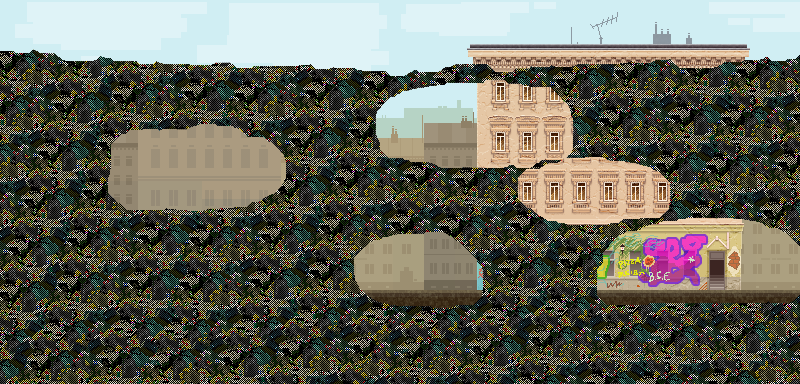
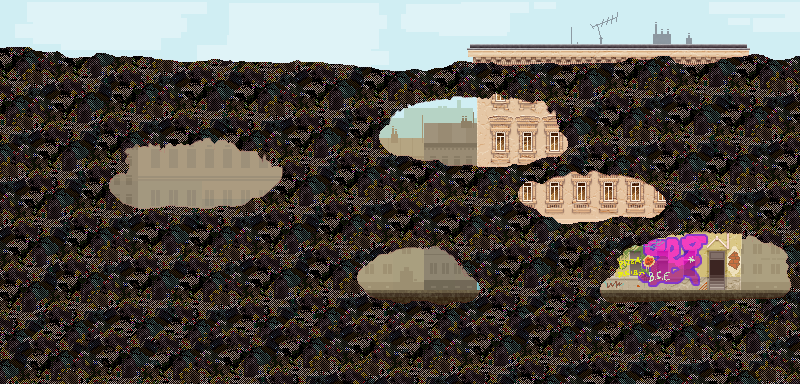
Level update Level screen neu Titelscreen neu Waschmaschinen assets gehen noch nicht ganz...

Changed region(s): [[0.0, 0.125, 1.0, 1.0]]

diff --git a/1700Easel/WebPage/home.html b/1700Easel/WebPage/home.html
@@ -132,11 +132,16 @@
 					30.1.2015
 					</p>
 					<p>
-					Preview Release von 1700 3/4
+					Preview Release von der Fluch der 1700
 					</p>
-					
 					<p class="termine">
-					29.2.2015
+					30.1.2015
+					</p>
+					<p>
+					Radiobeitrag in der FM4 Morningshow
+					</p>
+					<p class="termine">
+					29.1.2015
 					</p>
 					<p>
 					Radio Interview am Donnerstag 19.00 auf FM4 Homebase.
@@ -146,18 +151,6 @@
 					</p>
 					<p>
 					20:00 Radiointerview auf <a href="http://radio-stimme.at" target="_blank">Radio Stimme </a>, Radio Orange, 94.0 Wien
-					</p>
-					<p class="termine">
-					20.2.2015
-					</p>
-					<p>
-					at, sed diam voluptua. At vero eos et accusam et justo duo dolores et ea rebum. Stet clita kasd gubergren, no sea takimata sanctus est Lorem ipsum dolor sit amet. Lorem ipsum do
-					</p>
-					<p class="termine">
-					20.2.2015
-					</p>
-					<p>
-					at, sed diam voluptua. At vero eos et accusam et justo duo dolores et ea rebum. Stet clita kasd gubergren, no sea takimata sanctus est Lorem ipsum dolor sit amet. Lorem ipsum do
 					</p>
 				</span>
 			</div>
@@ -367,8 +360,25 @@
 									</a>
 								</div>
 						</div>
-					
+						
 						<div class="newselement" id="news_4">
+							<img src="img/burschis620x300.png" alt="" width="630" height="300">
+							<img src="img/trans620x300.png" alt="" class="overlay" width="630" height="300">
+								<div class="textbox">
+									<p class="head">
+									FM4 Morning show – 1700 im Radio
+									</p>
+									<p>
+									29.1.2015
+									</p>
+									<p>
+									Morgen früh sendet FM4 einen Beitrag über 1700<br/>
+									In der FM4 Morning show am 30.1. von 6:00 bis 10:00
+									</p>
+								</div>
+						</div>
+						
+						<div class="newselement" id="news_3">
 							<img src="img/thegap640x300.png" alt="" width="630" height="300">
 							<img src="img/trans620x300.png" alt="" class="overlay" width="630" height="300">
 								<div class="textbox">
@@ -387,9 +397,9 @@
 								</div>
 						</div>
 					
-						<div class="newselement" id="news_3">
-							<img src="img/josefS620x300.png" alt="" width="630" height="300">
-							<img src="img/trans620x300.png" alt="" class="overlay" width="630" height="300">
+						<div class="newselement" id="news_2">
+							<img src="img/josefS620x300.png" alt="" width="620" height="300">
+							<img src="img/trans620x300.png" alt="" class="overlay" width="620" height="300">
 								<div class="textbox">
 									<p class="head">
 									Heute 20:00 – 1700 auf Orange 94.0
@@ -407,40 +417,23 @@
 								</div>
 						</div>
 					
-						<div class="newselement" id="news_2">
-							<img src="img/pizzeria_620x300.png" alt="" width="630" height="300">
-							<img src="img/trans620x300.png" alt="" class="overlay" width="630" height="300">
-								<div class="textbox">
-									<p class="head">
-									Heute 20:00 – 1700 im Radio
-									</p>
-									<p>
-									20.1.2015
-									</p>
-									<p>
-									at, sed diam voluptua. At vero eos et accusam et justo duo dolores et ea rebum. Stet clita kasd gubergren, no sea takimata sanctus est Lorem ipsum dolor sit amet. Lorem ipsum do
-									</p>
-								</div>
-						</div>
+						
 					
 						<div class="newselement" id="news_1">
-							<img src="img/bagthrower_620x300.png" alt="" width="630" height="300">
+							<img src="img/shirts620x300.png" alt="" width="620" height="300">
 							<img src="img/trans620x300.png" alt="" class="overlay" width="630" height="300">
 								<div class="textbox">
 									<p class="head">
-									Radiotermine!
+									T-Shirts ab jetzt im Subotron!
 									</p>
 									<p>
-									30 Minuten 1700 bei Radio Stimme<br/>
-									Wien: Dienstag 20.1 20:00 Orange 94.0<br/>
-									Innsbruck:	Donnerstag 29.1 12:00 FREIRAD<br/>
-									Berlin:	Mittwoch 28.1. Radio Alex<br/>
-									weitere Termine (andere Bundesländer), 
-									Livestream und Aufzeichnung<br/>
+									28.11.2014
 									</p>
 									<p>
-									at, sed diam voluptua. At vero eos et accusam et justo duo dolores et ea rebum. Stet clita kasd gubergren, no sea takimata sanctus est Lorem ipsum dolor sit amet. Lorem ipsum do
+									Endlich gibt es die Shirts zum Wiener Serious Indie Hit 1700.<br/>
+									Für Damen und Herren in bunten Farben. Für Pizzabäcker, Punks und gentrifizierte MieterInnen.<br/>
 									</p>
+									<a href="http://subotron.com/5346-1700/" target="_blank">Hier gehts zum Shop</a>
 								</div>
 						</div>
 

diff --git a/1700Easel/assets/MetBox/descriptor.js b/1700Easel/assets/MetBox/descriptor.js
@@ -10,11 +10,34 @@ function MetBox(){
 MetBox.prototype = new Asset();
 
 MetBox.prototype.load = function () {
+
+	
 	this.barks=this.loadImage("MetalBox_22x22.png", this.barks);
+//	this.barks2=this.loadImage("MetalBox2_22x22.png", this.barks2);
+//	this.barks3=this.loadImage("MetalBox3_22x22.png", this.barks3);
+//	this.barks4=this.loadImage("MetalBox4_22x22.png", this.barks4);
+	
 };
 
 MetBox.prototype.drawInitial = function() {
+	
+	if (this.which == 1) {
+		console.log("hallo");
+	}
+	else if (this.which == 2) {
+		console.log("hallo");
+	}
+	else if (this.which == 3) {
+		console.log("hallo");
+	}
+	else if (this.which == 4) {
+		console.log("hallo");
+	}
+	else {
+		console.log("dfkjdfkd");
+	}
 	this.displayEntity.addBitmap(this.barks, true);
+//	this.displayEntity.addBitmap(this.barks, true);
 	this.displayEntity.pos(this.startX, this.startY);
 	this.finish();
 };

diff --git a/1700Easel/levels/Mullberg/level.js b/1700Easel/levels/Mullberg/level.js
@@ -67,31 +67,37 @@
 	
 		
 		p = this.initAsset("MetBox");
+		p.which=3;
 		p.startX=368;
 		p.startY=188;
 		p.show();
 		
 		p = this.initAsset("MetBox");
+		p.which=1;
 		p.startX=549;
 		p.startY=226;
 		p.show();
 		
 		p = this.initAsset("MetBox");
+		p.which=3;
 		p.startX=372;
 		p.startY=221;
 		p.show();
 		
 		p = this.initAsset("MetBox");
+		p.which=3;
 		p.startX=295;
 		p.startY=176;
 		p.show();
 		
 		p = this.initAsset("MetBox");
+		p.which=3;
 		p.startX=303;
 		p.startY=255;
 		p.show();
 		
 		p = this.initAsset("MetBox");
+		p.which=2;
 		p.startX=335;
 		p.startY=129;
 		p.show();

diff --git a/1700Easel/assets/WashBox/descriptor.js b/1700Easel/assets/WashBox/descriptor.js
@@ -1,0 +1,20 @@
+function WashBox(){
+	this.barks = new Image();
+	this.collisionHeight=22;
+	this.collisionWidth=22;
+	this.collisionOffsetX=0;
+	this.collisionType=EVERBLOCK;
+//	this.collisionType=VISIBLE_BLOCK;
+}
+
+WashBox.prototype = new Asset();
+
+WashBox.prototype.load = function () {
+	this.barks=this.loadImage("WashBox2.png", this.barks);
+};
+
+WashBox.prototype.drawInitial = function() {
+	this.displayEntity.addBitmap(this.barks, true);
+	this.displayEntity.pos(this.startX, this.startY);
+	this.finish();
+};

diff --git a/1700Easel/src/flavor/lemming/mainScreen.js b/1700Easel/src/flavor/lemming/mainScreen.js
@@ -18,7 +18,7 @@ MainLevel.prototype.init = function () {
 	};
 	
 	this.loadAction.load = function() {
-		this.level.mainScreen=this.loader.loadImage("img/titleScreen.png", this.level.mainScreen);
+		this.level.mainScreen=this.loader.loadImage("img/titleScreen_neu.png", this.level.mainScreen);
 		this.loader.loadSound("fx/float_huuu.mp3","Float");
 		this.loader.loadSound("fx/float_naaa.mp3","FloatFall");
 		this.loader.loadSound("fx/Climb.mp3","Climb");

diff --git a/1700Easel/WebPage/css/style.css b/1700Easel/WebPage/css/style.css
@@ -149,7 +149,6 @@ h2.right a {
 span.sidebox {
 	display: inline-block;
 	position: relative;
-	height: 1000px;
 	background-color: rgba(255, 255, 0, 0.7);
 	width: 300px;
 	margin-bottom: 20px;
